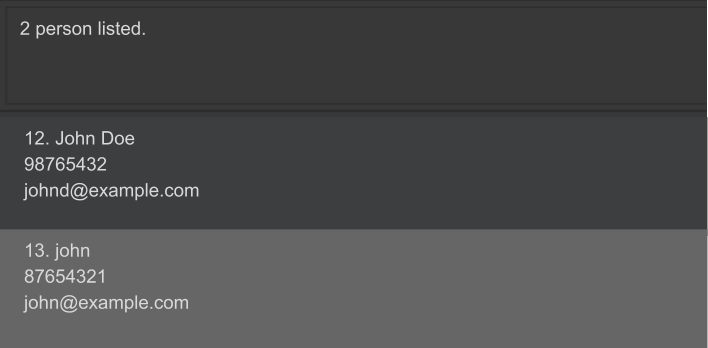
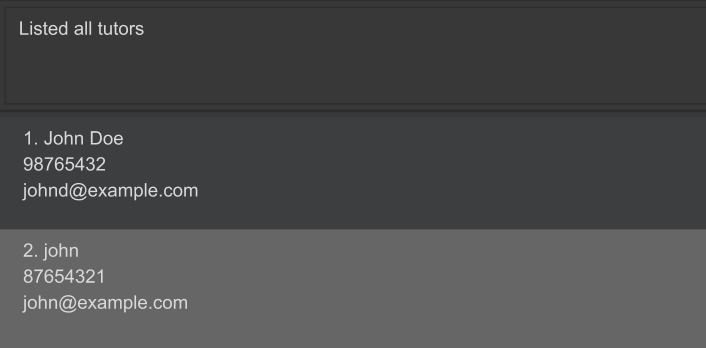
Replace person with tutor for find in UG

diff --git a/docs/UserGuide.md b/docs/UserGuide.md
@@ -173,15 +173,15 @@ Find tutors whose names contain any of the given keywords.
 
     * Search is case-insensitive. e.g. `hans` will match `Hans`
     * The order of the keywords does not matter. e.g. `Hans Bo` will match `Bo Hans`
-    * Only the name is searched.
+    * Only the tutor name is searched.
     * Only full words will be matched. e.g. `Han` will not match `Hans`
     * Persons matching at least one keyword will be returned (i.e. OR search). e.g. `Hans Bo` will return `Hans Gruber`, `Bo Yang`
 
     </div>
 
 **Expected output**:
-* `2 persons listed!`
-* `0 persons listed!`
+* `2 tutors listed!`
+* `0 tutors listed!`
 
 **Error messages**:
 * `Missing search keyword:`: No search keyword provided.
